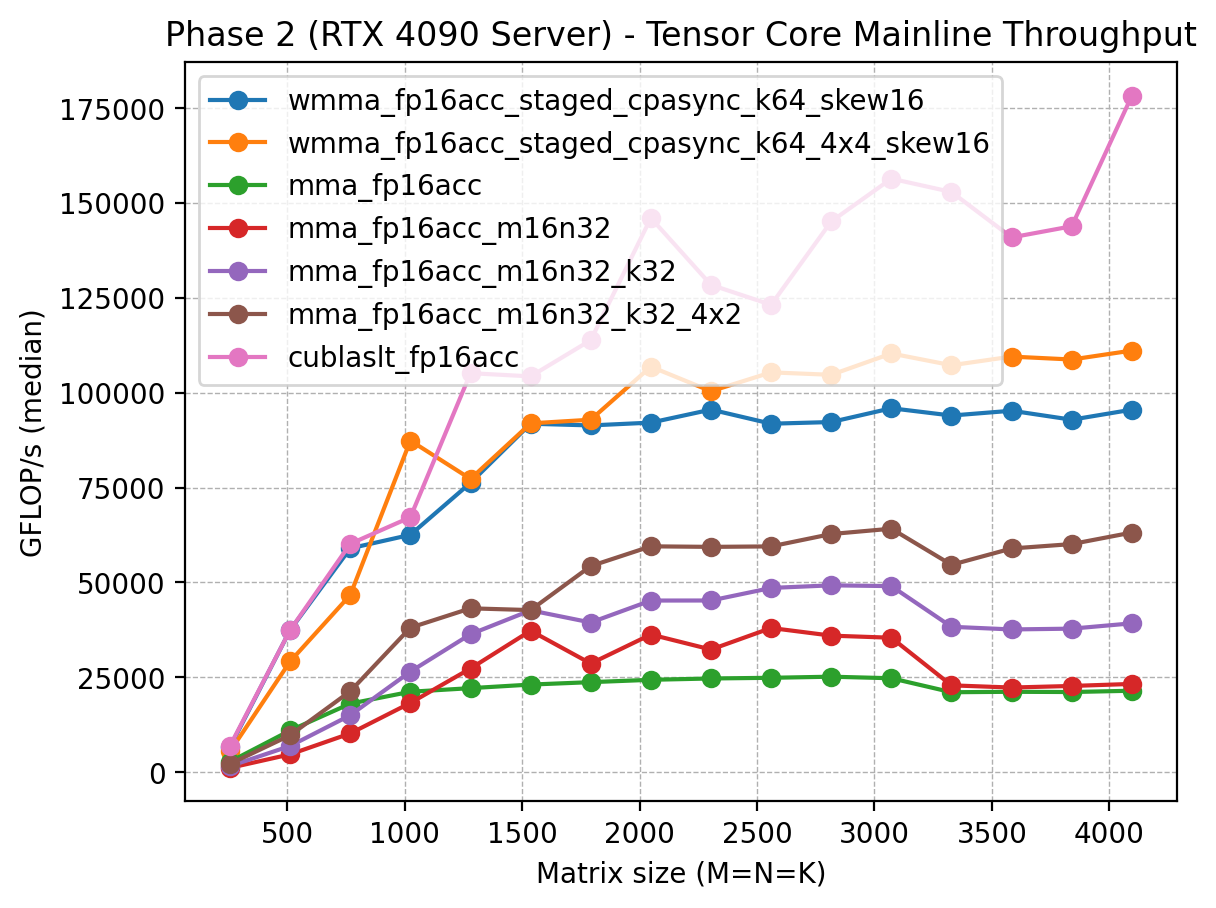
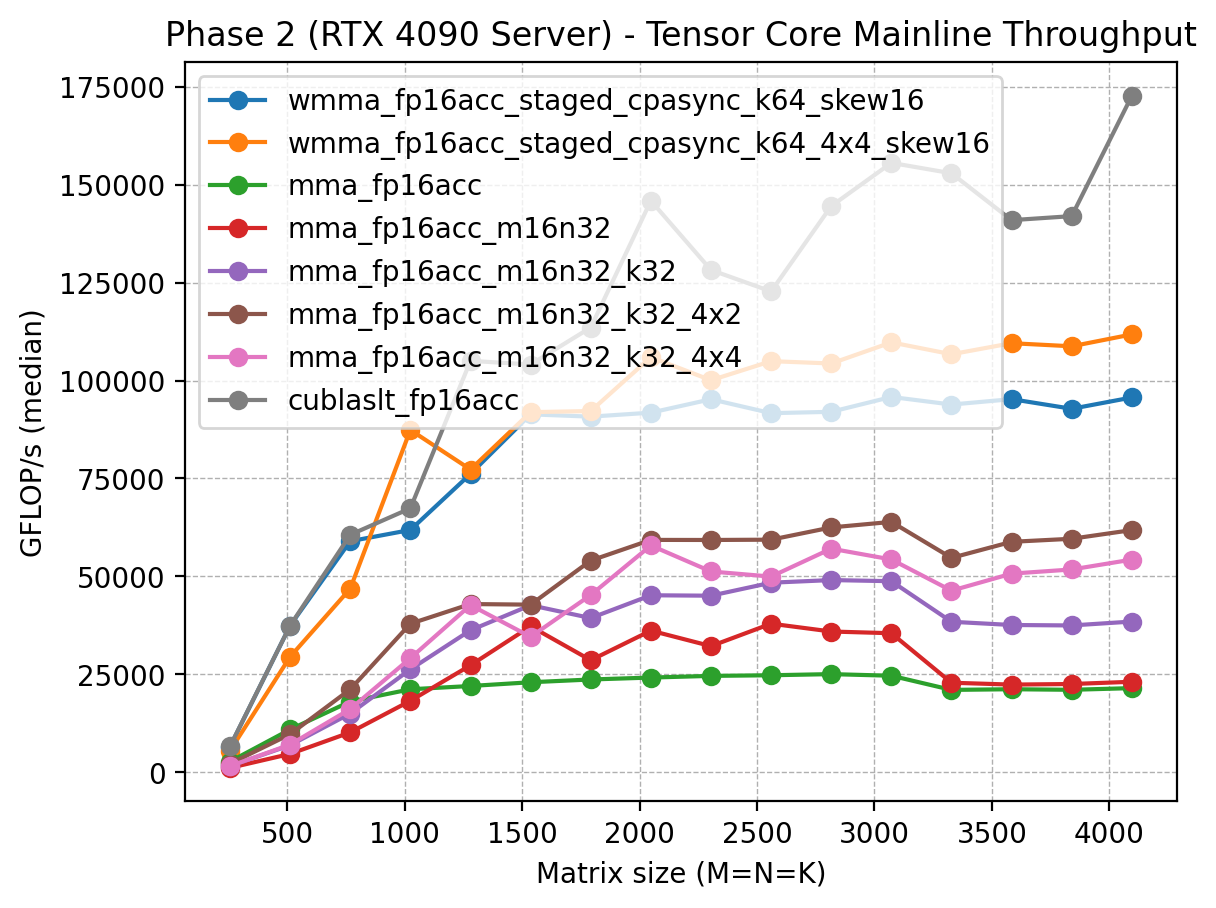
新增mma_fp16acc_m16n32_k32_4x4算子，为了确认继续扩大 N 向 tile 是否还能提升。结果是相对 4x2 基本全尺寸退化。下一步基于 4x2 做 cp.async

diff --git a/scripts/plot.py b/scripts/plot.py
@@ -87,6 +87,7 @@ PHASE2_4090_IMPLS = [
     "mma_fp16acc_m16n32",
     "mma_fp16acc_m16n32_k32",
     "mma_fp16acc_m16n32_k32_4x2",
+    "mma_fp16acc_m16n32_k32_4x4",
     # "cublas_gemmex_fp16acc",
     "cublaslt_fp16acc",
 ]
